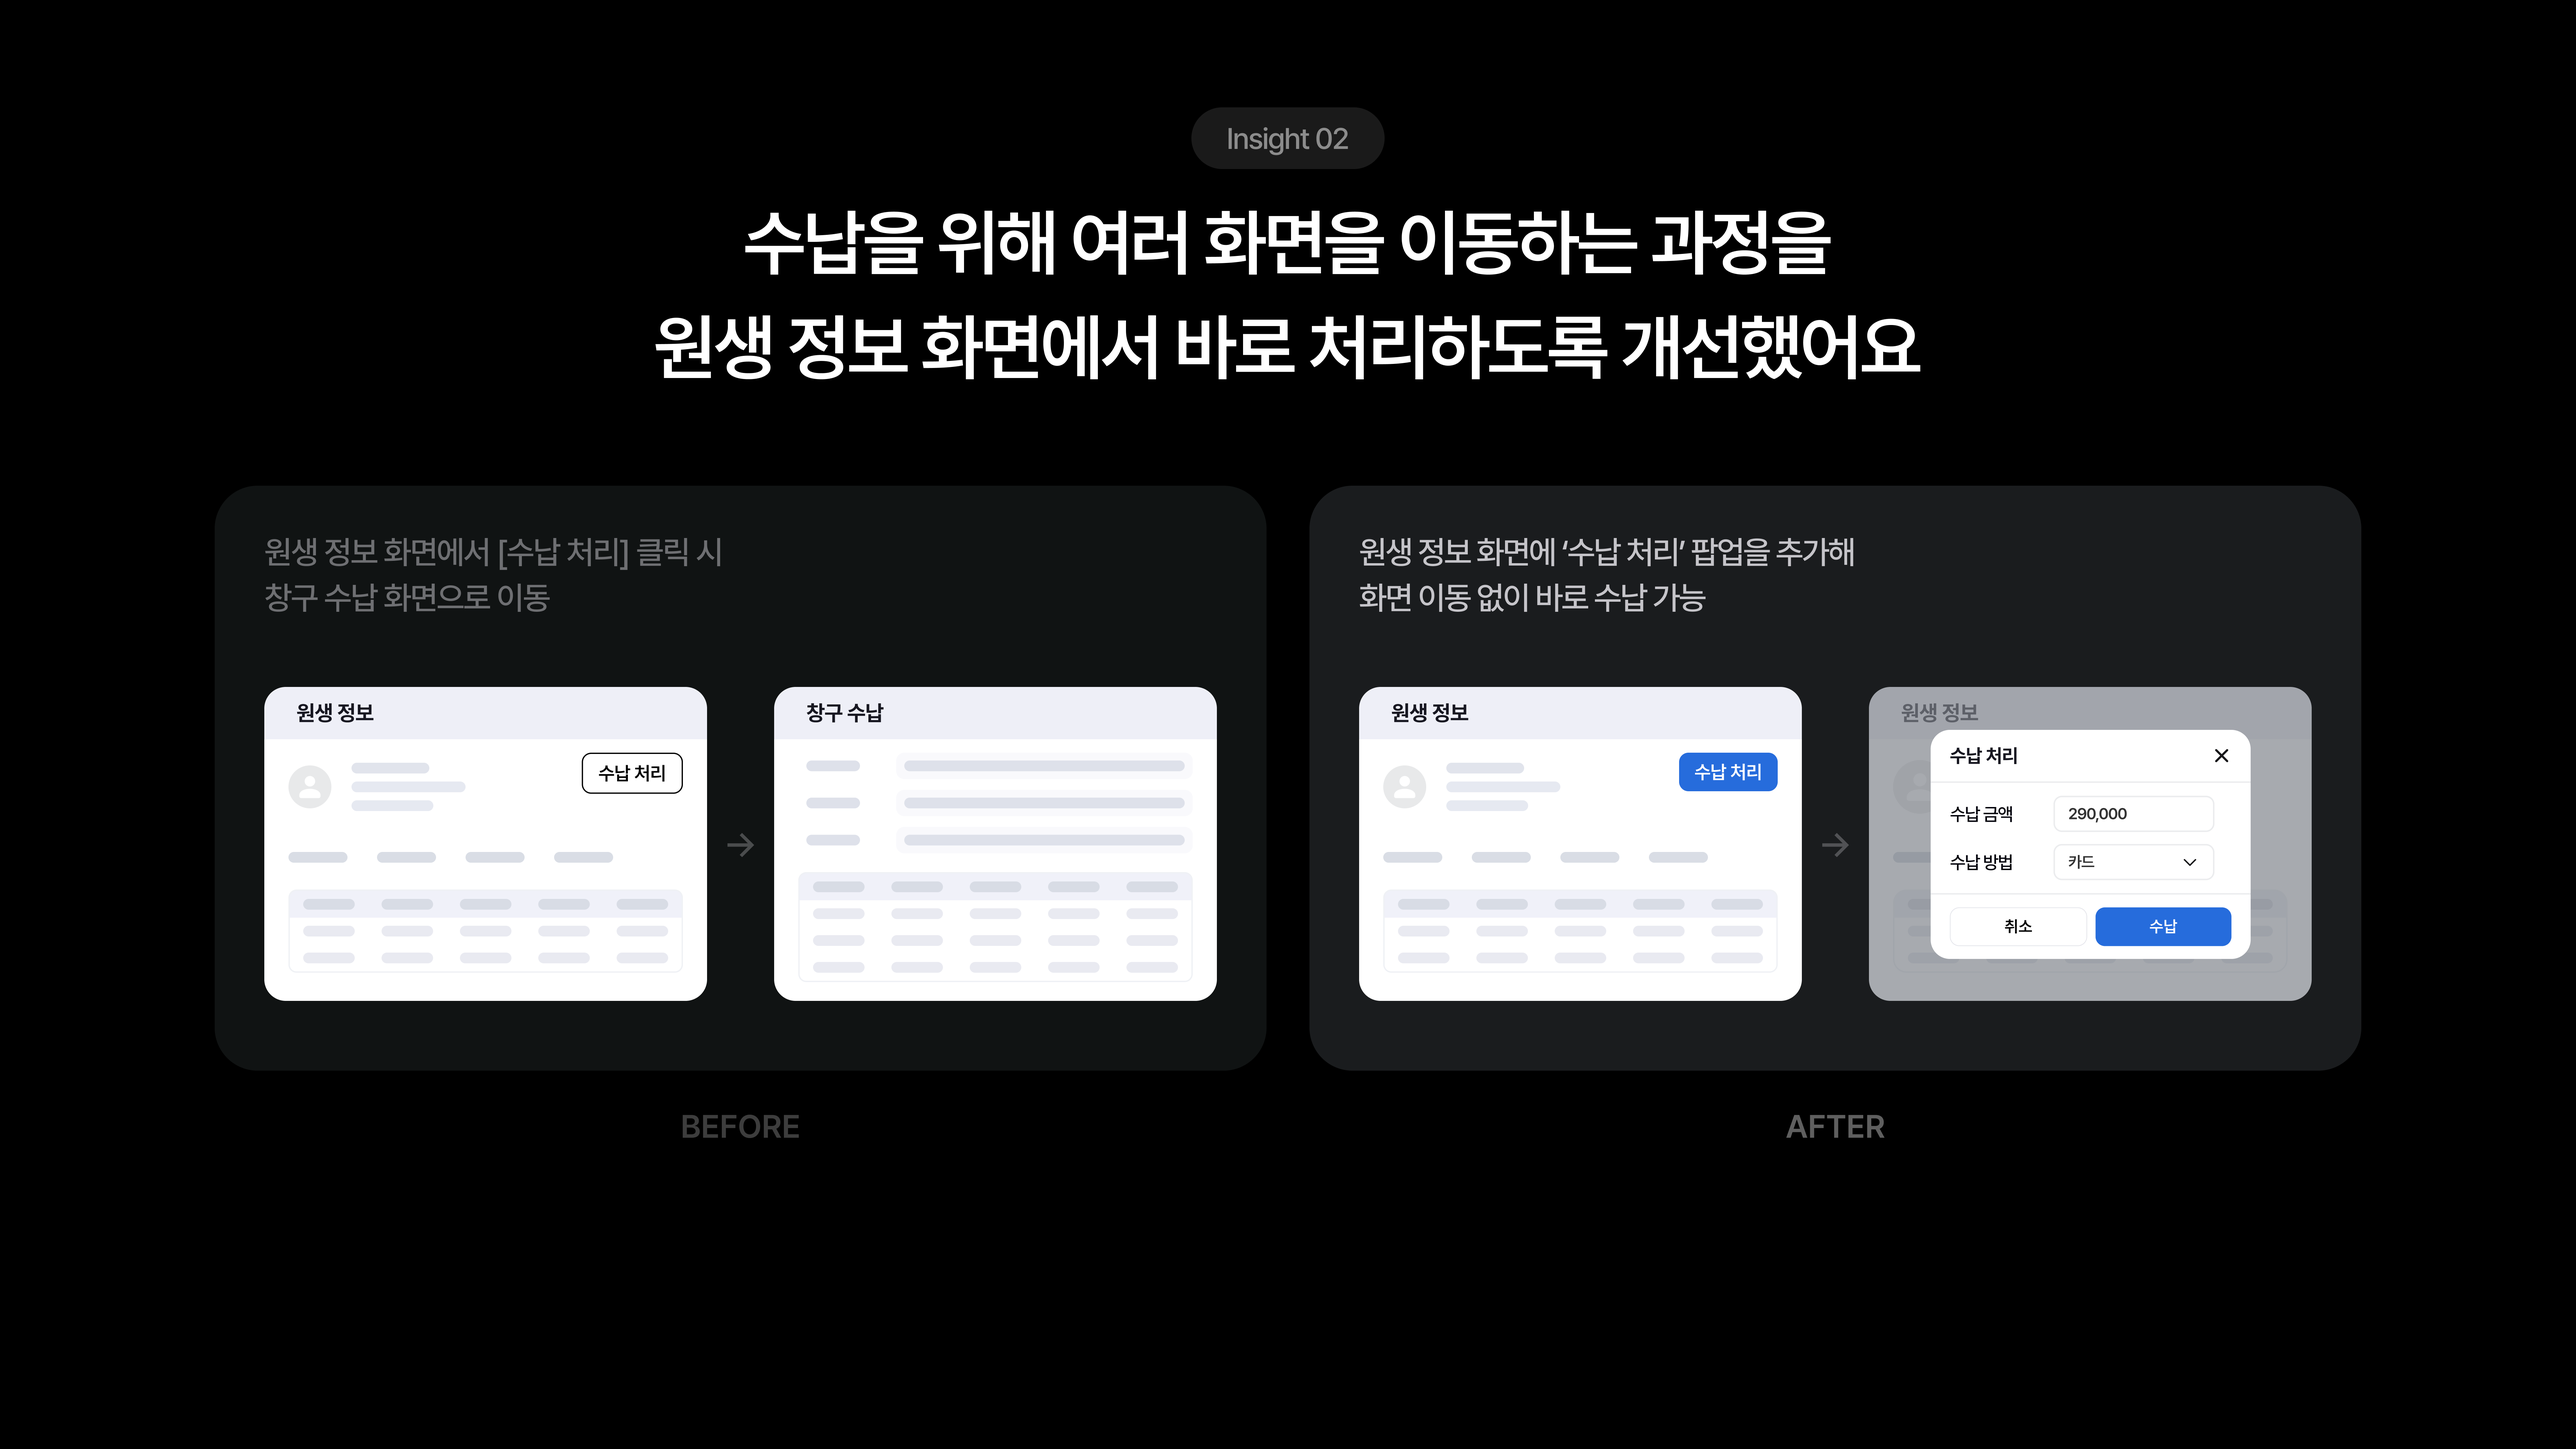
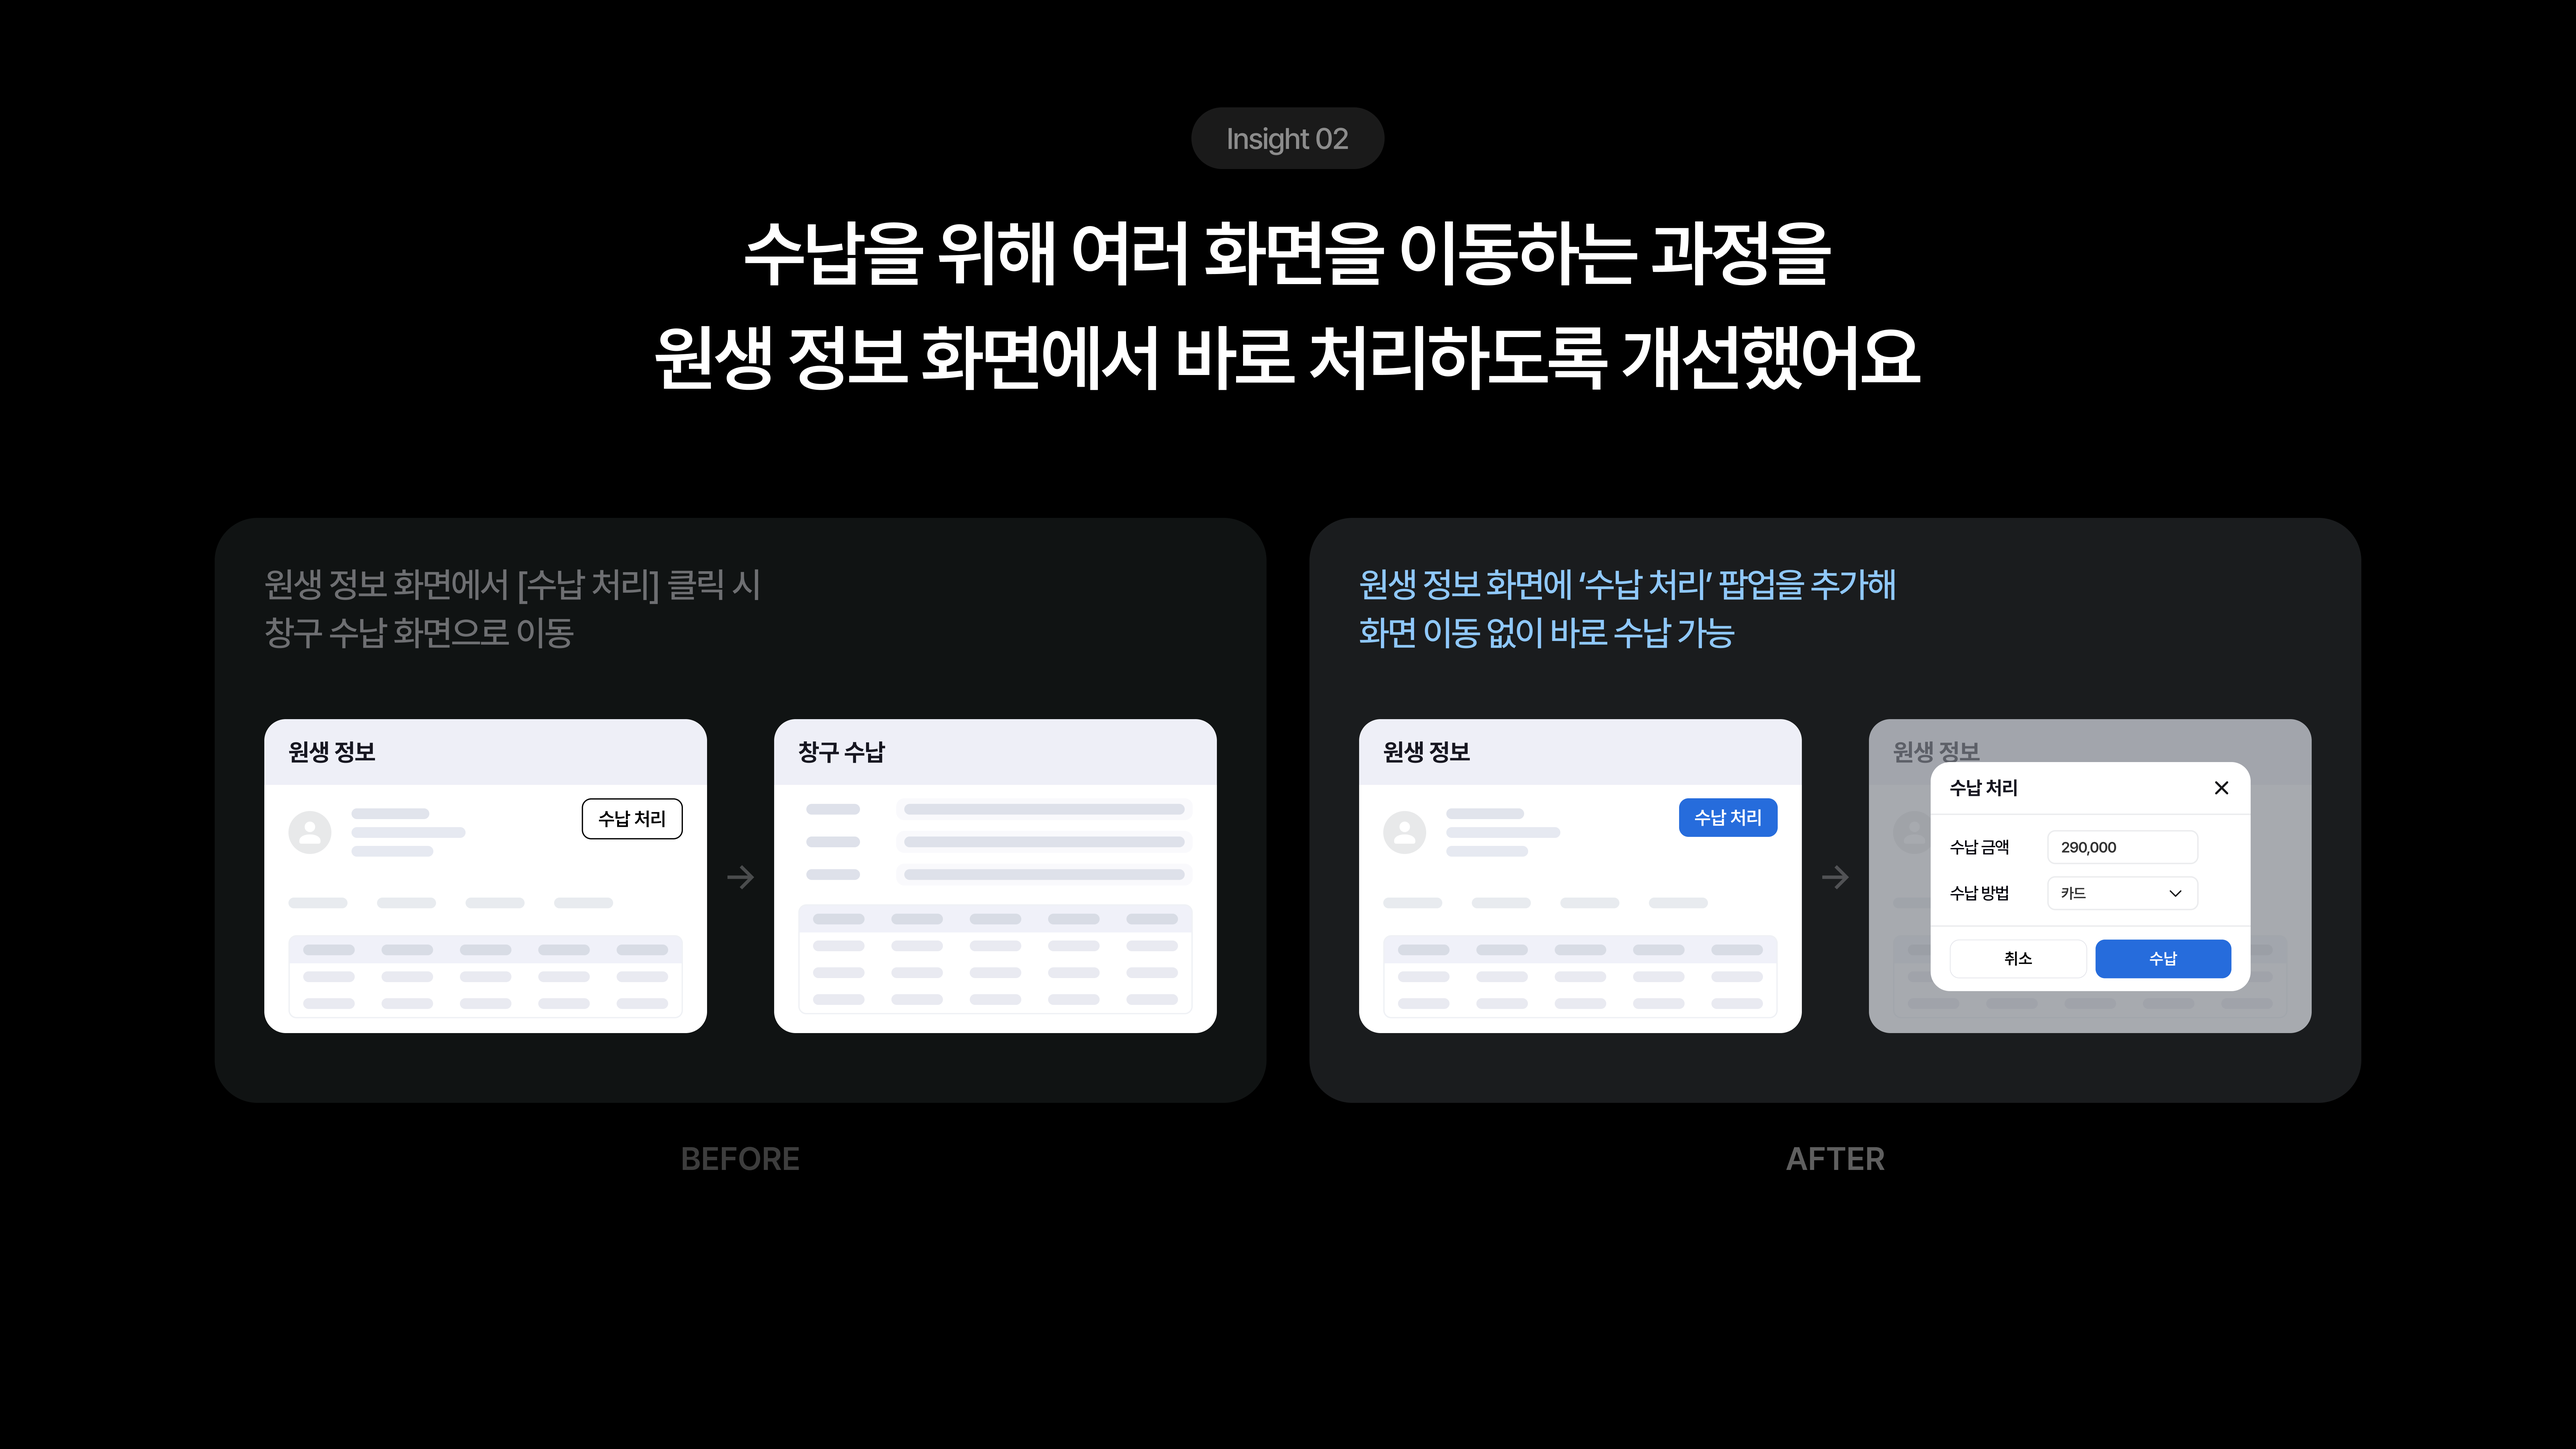
학원 ERP 08·09·10 슬라이드 재내보내기본 반영
- 08·09·10.png 갱신 (7680x4320, 총 24장 그대로)
  AFTER 쪽 설명 문구가 파란색 강조로 바뀌어 개선 지점이 드러난다.
- ASSET_VERSION 20261125d -> 20261125e

diff --git a/assets/js/main.js b/assets/js/main.js
@@ -70,7 +70,7 @@
      (CSS/JS 의 ?v= 와 같은 역할)
      경로 자체에는 붙이지 않는다 — 확장자 추출이나 존재 확인이 쿼리에
      오염되면 안 되므로, <img src> 에 실을 때만 versioned() 로 감싼다. */
-  var ASSET_VERSION = '20261125d';
+  var ASSET_VERSION = '20261125e';
   function slidePath(key, n, ext) { return 'assets/slides/' + key + '/' + pad(n) + '.' + ext; }
   function versioned(src) { return src + '?v=' + ASSET_VERSION; }
 

diff --git a/index.html b/index.html
@@ -169,6 +169,6 @@
   </div>
 </div>
 
-<script src="assets/js/main.js?v=20261125d"></script>
+<script src="assets/js/main.js?v=20261125e"></script>
 </body>
 </html>
